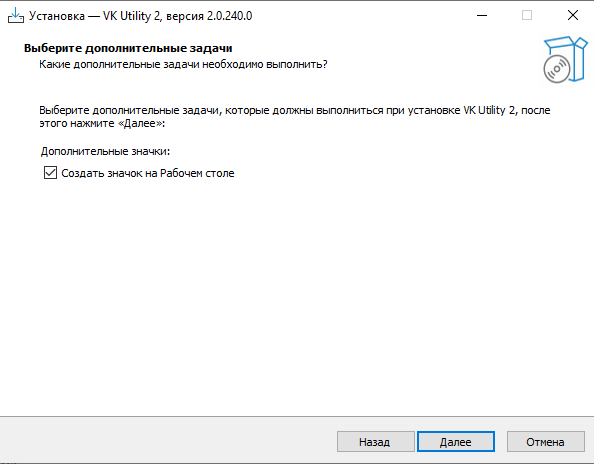
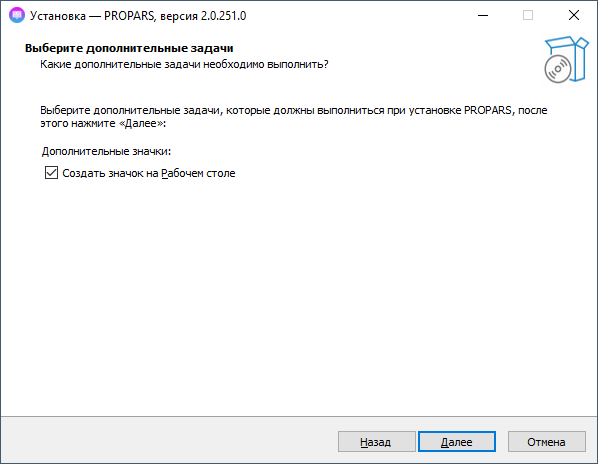
Update screenshots

diff --git a/docs/setup-and-launch/install.md b/docs/setup-and-launch/install.md
@@ -1,0 +1,45 @@
+<div style="text-align: justify">
+  <p>Для наиболее быстрого и простого процесса установки мы создали установщик, который установит <code>PROPARS</code> на ваш компьютер. Скачайте и запустите его.</p>
+</div>
+
+[:fontawesome-solid-download: Скачать установщик PROPARS :fontawesome-solid-download:](https://soft-issue.com/vku2-version/setups/propars-setup.exe){ .md-button }
+
+??? question "Что делать, если не запускается установщик?"
+    После запуска вы можете столкнуться с предупреждением от `Windows Smart Screen`.
+
+    ![](../img/sm_1.png)
+
+    По скольку у нашей программы пока нет цифровой подписи, `Windows Smart Screen` блокирует её запуск. Нажмите в окне на ссылку `Подробнее`, а далее на кнопку `Выполнить в любом случае` как показано на картинке ниже.
+
+    ![](../img/sm_2.png)
+
+<div style="text-align: justify">
+После выше указанных действий, у вас запустится установщик. На первом шаге вам необходимо выбрать папку, в которую программа будет установлена.
+</div>
+
+![](../img/installer_1.png)
+
+Далее название для папки программы в меню `Пуск`.
+
+![](../img/installer_2.png)
+
+Настройки создания ярлыка на рабочем столе (программа создаёт только один ярлык).
+
+![](../img/installer_3.png)
+
+На последнем шаге установщик ознакомит вас с выбранными опциями.
+
+![](../img/installer_4.png)
+
+После завершения установки вы можете запустить программу прямо из установщика.
+
+![](../img/installer_5.png)
+
+**Поздравляем!** PROPARS был успешно установлен на ваш компьютер.
+
+---
+
+## Что дальше?
+Вы в одном шаге, чтобы начать пользоваться программой.
+
+Перейдите к разделу [Первый запуск](./first-launch.md) чтобы узнать как пользоваться программой.
